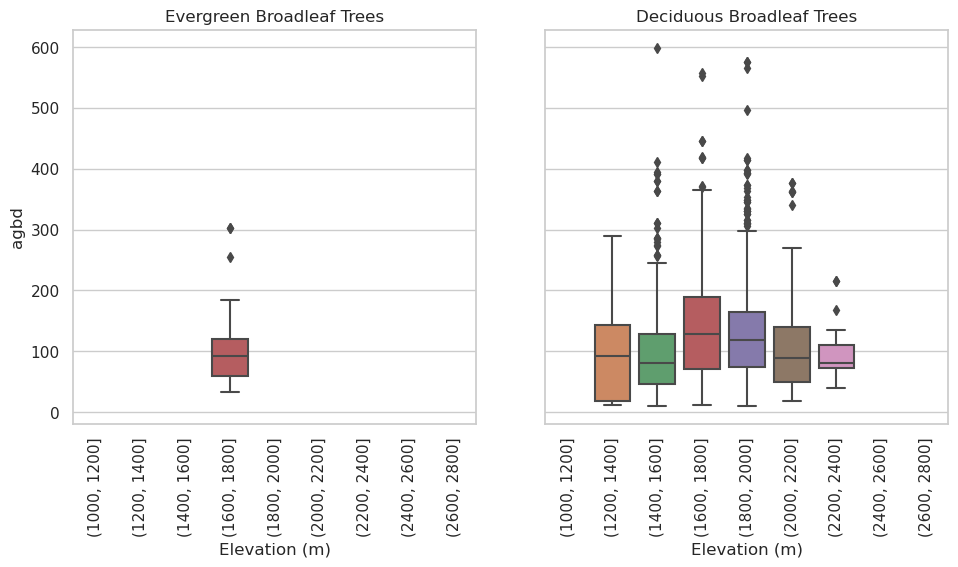
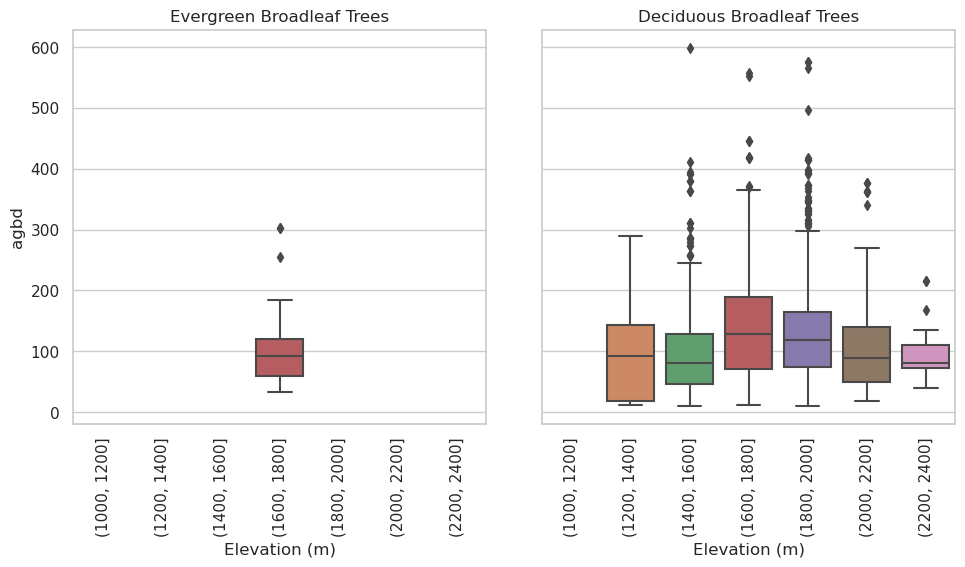
Built site for gh-pages

diff --git a/tutorials/science/gedi-l4a-agbd.html b/tutorials/science/gedi-l4a-agbd.html
@@ -345,6 +345,13 @@ pre > code.sourceCode > span > a:first-child::before { text-decoration: underlin
   </ul></li>
   <li><a href="#import-modules" id="toc-import-modules" class="nav-link" data-scroll-target="#import-modules">Import Modules</a></li>
   <li><a href="#authentication" id="toc-authentication" class="nav-link" data-scroll-target="#authentication">Authentication</a></li>
+  <li><a href="#create-harmony-client-object" id="toc-create-harmony-client-object" class="nav-link" data-scroll-target="#create-harmony-client-object">Create Harmony Client object</a></li>
+  <li><a href="#retrieve-concept-id" id="toc-retrieve-concept-id" class="nav-link" data-scroll-target="#retrieve-concept-id">Retrieve Concept ID</a></li>
+  <li><a href="#define-request-parameters" id="toc-define-request-parameters" class="nav-link" data-scroll-target="#define-request-parameters">Define Request Parameters</a></li>
+  <li><a href="#create-and-submit-harmony-request" id="toc-create-and-submit-harmony-request" class="nav-link" data-scroll-target="#create-and-submit-harmony-request">Create and Submit Harmony Request</a></li>
+  <li><a href="#read-subset-files" id="toc-read-subset-files" class="nav-link" data-scroll-target="#read-subset-files">Read Subset files</a></li>
+  <li><a href="#quality-filter-and-plot" id="toc-quality-filter-and-plot" class="nav-link" data-scroll-target="#quality-filter-and-plot">Quality Filter and Plot</a></li>
+  <li><a href="#further-resources" id="toc-further-resources" class="nav-link" data-scroll-target="#further-resources">Further Resources</a></li>
   </ul>
 <div class="toc-actions"><div><i class="bi bi-github"></i></div><div class="action-links"><p><a href="https://github.dev/NASA-Openscapes/2023-ssc/blob/main/tutorials/science/gedi-l4a-agbd.ipynb" class="toc-action">Edit this page</a></p><p><a href="https://github.com/NASA-Openscapes/2023-ssc/issues/new" class="toc-action">Report an issue</a></p></div></div></nav>
     </div>
@@ -419,10 +426,16 @@ pre > code.sourceCode > span > a:first-child::before { text-decoration: underlin
 <h2 class="anchored" data-anchor-id="authentication">Authentication</h2>
 <p>NASA Harmony API requires <a href="https://urs.earthdata.nasa.gov/">NASA Earthdata Login (EDL)</a>. You can use the <a href="https://nsidc.github.io/earthaccess/">earthaccess</a> Python library to set up authetincation. Alternatively, you can also login to harmony_client directly by passing EDL authentication as the following in the Jupyter Notebook itself:</p>
 <pre><code>harmony_client = Client(auth=("your EDL username", "your EDL password"))</code></pre>
+</section>
+<section id="create-harmony-client-object" class="level2">
+<h2 class="anchored" data-anchor-id="create-harmony-client-object">Create Harmony Client object</h2>
 <p>First, we create a Harmony Client object. If you are passing the EDL authentication, please do as shown above with <code>auth</code> parameter.</p>
 <div class="cell" data-tags="[]" data-execution_count="2">
 <div class="sourceCode cell-code" id="cb4"><pre class="sourceCode python code-with-copy"><code class="sourceCode python"><span id="cb4-1"><a href="#cb4-1" aria-hidden="true" tabindex="-1"></a>harmony_client <span class="op">=</span> Client()</span></code><button title="Copy to Clipboard" class="code-copy-button"><i class="bi"></i></button></pre></div>
 </div>
+</section>
+<section id="retrieve-concept-id" class="level2">
+<h2 class="anchored" data-anchor-id="retrieve-concept-id">Retrieve Concept ID</h2>
 <p>Now let’s retrieve the <code>Concept ID</code> of the GEDI L4A dataset. The <code>Concept ID</code> is NASA Earthdata’s unique ID for its dataset.</p>
 <div class="cell" data-tags="[]" data-execution_count="3">
 <div class="sourceCode cell-code" id="cb5"><pre class="sourceCode python code-with-copy"><code class="sourceCode python"><span id="cb5-1"><a href="#cb5-1" aria-hidden="true" tabindex="-1"></a><span class="co"># GEDI L4A DOI </span></span>
@@ -436,19 +449,22 @@ pre > code.sourceCode > span > a:first-child::before { text-decoration: underlin
 <pre><code>'C2237824918-ORNL_CLOUD'</code></pre>
 </div>
 </div>
+</section>
+<section id="define-request-parameters" class="level2">
+<h2 class="anchored" data-anchor-id="define-request-parameters">Define Request Parameters</h2>
 <p>Let’s create a Harmony Collection object with the concept_id retrieved above. We will also define the GEDI L4A variables of interest and temporal range.</p>
 <div class="cell" data-tags="[]" data-execution_count="4">
 <div class="sourceCode cell-code" id="cb7"><pre class="sourceCode python code-with-copy"><code class="sourceCode python"><span id="cb7-1"><a href="#cb7-1" aria-hidden="true" tabindex="-1"></a>collection <span class="op">=</span> Collection(<span class="bu">id</span><span class="op">=</span>concept_id)</span>
 <span id="cb7-2"><a href="#cb7-2" aria-hidden="true" tabindex="-1"></a><span class="co"># gedi beams</span></span>
 <span id="cb7-3"><a href="#cb7-3" aria-hidden="true" tabindex="-1"></a>beams <span class="op">=</span> [<span class="st">'BEAM0000'</span>, <span class="st">'BEAM0001'</span>, <span class="st">'BEAM0010'</span>, <span class="st">'BEAM0011'</span>, <span class="st">'BEAM0101'</span>, <span class="st">'BEAM0110'</span>, <span class="st">'BEAM1000'</span>, <span class="st">'BEAM1011'</span>]</span>
 <span id="cb7-4"><a href="#cb7-4" aria-hidden="true" tabindex="-1"></a><span class="co"># gedi variables</span></span>
-<span id="cb7-5"><a href="#cb7-5" aria-hidden="true" tabindex="-1"></a><span class="bu">vars</span> <span class="op">=</span> [<span class="st">'agbd'</span>, <span class="st">'l4_quality_flag'</span>, <span class="st">'elev_lowestmode'</span>, <span class="st">'land_cover_data/pft_class'</span>]</span>
+<span id="cb7-5"><a href="#cb7-5" aria-hidden="true" tabindex="-1"></a>variables <span class="op">=</span> [<span class="st">'agbd'</span>, <span class="st">'l4_quality_flag'</span>, <span class="st">'elev_lowestmode'</span>, <span class="st">'land_cover_data/pft_class'</span>]</span>
 <span id="cb7-6"><a href="#cb7-6" aria-hidden="true" tabindex="-1"></a><span class="co"># combine variables and beams</span></span>
-<span id="cb7-7"><a href="#cb7-7" aria-hidden="true" tabindex="-1"></a>variables <span class="op">=</span> [<span class="ss">f'/</span><span class="sc">{</span>b<span class="sc">}</span><span class="ss">/</span><span class="sc">{</span>v<span class="sc">}</span><span class="ss">'</span> <span class="cf">for</span> b <span class="kw">in</span> beams <span class="cf">for</span> v <span class="kw">in</span> <span class="bu">vars</span>]</span>
+<span id="cb7-7"><a href="#cb7-7" aria-hidden="true" tabindex="-1"></a>variables <span class="op">=</span> [<span class="ss">f'/</span><span class="sc">{</span>b<span class="sc">}</span><span class="ss">/</span><span class="sc">{</span>v<span class="sc">}</span><span class="ss">'</span> <span class="cf">for</span> b <span class="kw">in</span> beams <span class="cf">for</span> v <span class="kw">in</span> variables]</span>
 <span id="cb7-8"><a href="#cb7-8" aria-hidden="true" tabindex="-1"></a>temporal_range <span class="op">=</span> {<span class="st">'start'</span>: datetime(<span class="dv">2019</span>, <span class="dv">4</span>, <span class="dv">17</span>), </span>
 <span id="cb7-9"><a href="#cb7-9" aria-hidden="true" tabindex="-1"></a>                  <span class="st">'stop'</span>: datetime(<span class="dv">2023</span>, <span class="dv">3</span>, <span class="dv">31</span>)}</span></code><button title="Copy to Clipboard" class="code-copy-button"><i class="bi"></i></button></pre></div>
 </div>
-<p>We will use the spatial extent of a <a href="https://en.wikipedia.org/wiki/La_Primavera_Biosphere_Reserve">La Primavera Biosphere Reserve</a> provided as a GeoJSON file at <code>bosque_primavera.json</code>. Let’s open this file and compute its bound.</p>
+<p>We will use the spatial extent of a <a href="https://en.wikipedia.org/wiki/La_Primavera_Biosphere_Reserve">La Primavera Biosphere Reserve</a> provided as a GeoJSON file at <code>bosque_primavera.json</code>. Let’s open and plot this file.</p>
 <div class="cell" data-tags="[]" data-execution_count="5">
 <div class="sourceCode cell-code" id="cb8"><pre class="sourceCode python code-with-copy"><code class="sourceCode python"><span id="cb8-1"><a href="#cb8-1" aria-hidden="true" tabindex="-1"></a>poly_json <span class="op">=</span> <span class="st">'../data-access/bosque_primavera.json'</span></span>
 <span id="cb8-2"><a href="#cb8-2" aria-hidden="true" tabindex="-1"></a>poly <span class="op">=</span> gpd.read_file(poly_json) </span>
@@ -459,6 +475,9 @@ pre > code.sourceCode > span > a:first-child::before { text-decoration: underlin
 <p><img src="gedi-l4a-agbd_files/figure-html/cell-6-output-1.png" class="img-fluid"></p>
 </div>
 </div>
+</section>
+<section id="create-and-submit-harmony-request" class="level2">
+<h2 class="anchored" data-anchor-id="create-and-submit-harmony-request">Create and Submit Harmony Request</h2>
 <p>Now we can create a Harmony request with variables, temporal range, and bounding box and submit the request using the Harmony client object. We will use the <code>download_all</code> method, which uses a multithreaded downloader and returns a <a href="https://docs.python.org/3/library/concurrent.futures.html">concurrent future</a>. Futures are asynchronous and let us use the downloaded file as soon as the download is complete while other files are still being downloaded.</p>
 <div class="cell" data-tags="[]" data-execution_count="6">
 <div class="sourceCode cell-code" id="cb9"><pre class="sourceCode python code-with-copy"><code class="sourceCode python"><span id="cb9-1"><a href="#cb9-1" aria-hidden="true" tabindex="-1"></a>request <span class="op">=</span> Request(collection<span class="op">=</span>collection, </span>
@@ -569,6 +588,9 @@ Job is running with errors.
  [ Processing: 100% ] |###################################################| [|]</code></pre>
 </div>
 </div>
+</section>
+<section id="read-subset-files" class="level2">
+<h2 class="anchored" data-anchor-id="read-subset-files">Read Subset files</h2>
 <p>All the subsetted files are saved as <code>_subsetted.h5</code>. Let’s read these <code>h5</code> files into a pandas dataframe.</p>
 <div class="cell" data-tags="[]" data-execution_count="7">
 <div class="sourceCode cell-code" id="cb12"><pre class="sourceCode python code-with-copy"><code class="sourceCode python"><span id="cb12-1"><a href="#cb12-1" aria-hidden="true" tabindex="-1"></a>subset_df <span class="op">=</span> pd.DataFrame()</span>
@@ -701,6 +723,9 @@ Job is running with errors.
 </div>
 </div>
 </div>
+</section>
+<section id="quality-filter-and-plot" class="level2">
+<h2 class="anchored" data-anchor-id="quality-filter-and-plot">Quality Filter and Plot</h2>
 <p>We can now quality filter the dataset and only retrieve the good quality shots for trees and shrub cover plant functional types (PFTs).</p>
 <div class="cell" data-tags="[]" data-execution_count="8">
 <div class="sourceCode cell-code" id="cb13"><pre class="sourceCode python code-with-copy"><code class="sourceCode python"><span id="cb13-1"><a href="#cb13-1" aria-hidden="true" tabindex="-1"></a><span class="co"># MCD12Q1 PFT types</span></span>
@@ -747,7 +772,7 @@ Job is running with errors.
 </div>
 <p>Let’s also plot how the AGBD is distributed across elevation ranges for different PFTs.</p>
 <div class="cell" data-tags="[]" data-execution_count="10">
-<div class="sourceCode cell-code" id="cb15"><pre class="sourceCode python code-with-copy"><code class="sourceCode python"><span id="cb15-1"><a href="#cb15-1" aria-hidden="true" tabindex="-1"></a>gdf[<span class="st">'elev_bin'</span>]<span class="op">=</span>pd.cut(gdf[<span class="st">'elev_lowestmode'</span>], bins <span class="op">=</span><span class="bu">range</span>(<span class="dv">1000</span>, <span class="dv">3000</span>, <span class="dv">200</span>))</span>
+<div class="sourceCode cell-code" id="cb15"><pre class="sourceCode python code-with-copy"><code class="sourceCode python"><span id="cb15-1"><a href="#cb15-1" aria-hidden="true" tabindex="-1"></a>gdf[<span class="st">'elev_bin'</span>]<span class="op">=</span>pd.cut(gdf[<span class="st">'elev_lowestmode'</span>], bins <span class="op">=</span><span class="bu">range</span>(<span class="dv">1000</span>, <span class="dv">2600</span>, <span class="dv">200</span>))</span>
 <span id="cb15-2"><a href="#cb15-2" aria-hidden="true" tabindex="-1"></a>g <span class="op">=</span> sns.catplot(x <span class="op">=</span> <span class="st">"elev_bin"</span>, y <span class="op">=</span> <span class="st">"agbd"</span>, data <span class="op">=</span> gdf[mask], col<span class="op">=</span><span class="st">"pft_class"</span>, kind<span class="op">=</span><span class="st">"box"</span>)</span>
 <span id="cb15-3"><a href="#cb15-3" aria-hidden="true" tabindex="-1"></a>g.set_xticklabels(rotation<span class="op">=</span><span class="dv">90</span>)</span>
 <span id="cb15-4"><a href="#cb15-4" aria-hidden="true" tabindex="-1"></a>g.set_titles(<span class="st">"</span><span class="sc">{col_name}</span><span class="st">"</span>)</span>
@@ -759,7 +784,10 @@ Job is running with errors.
 <p><img src="gedi-l4a-agbd_files/figure-html/cell-11-output-1.png" class="img-fluid"></p>
 </div>
 </div>
-<p>Additional tutorials on discovering, accessing, and using GEDI Level 3 and Level 4 data products are available at https://github.com/ornldaac/gedi_tutorials.</p>
+</section>
+<section id="further-resources" class="level2">
+<h2 class="anchored" data-anchor-id="further-resources">Further Resources</h2>
+<p>Additional tutorials on discovering, accessing, and using GEDI Level 3 and Level 4 data products are available at <a href="https://github.com/ornldaac/gedi_tutorials">https://github.com/ornldaac/gedi_tutorials</a>.</p>
 
 
 </section>

diff --git a/tutorials/jupyterhub_demo/jupyterhub_demo.html b/tutorials/jupyterhub_demo/jupyterhub_demo.html
@@ -325,7 +325,7 @@ ul.task-list li input[type="checkbox"] {
 </header>
 
 <p>Author: Tasha Snow</p>
-<p><code>zlisxtkvtxwv Learning Objectives - **Learn how to access and use the Openscapes JupyterHub**  - **Open the JupyterHub and clone the Openscapes Espacio and Sostenibilidad Colloquium repository**</code></p>
+<p><code>hbquaorletof Learning Objectives - **Learn how to access and use the Openscapes JupyterHub**  - **Open the JupyterHub and clone the Openscapes Espacio and Sostenibilidad Colloquium repository**</code></p>
 <section id="access-the-cryocloud-powerpoint-whenever-you-need-to-reference-it" class="level2">
 <h2 class="anchored" data-anchor-id="access-the-cryocloud-powerpoint-whenever-you-need-to-reference-it">Access the <a href="https://bit.ly/4785hMv">CryoCloud powerpoint</a> whenever you need to reference it</h2>
 <p>Open the powerpoint by directly clicking on the hyperlink above or to open it in the Openscapes Linux Desktop web browser as follows: - Copy this hyperlink: <code>https://bit.ly/4785hMv</code> - Click on the plus (<code>+</code>) sign in the <code>File Browser</code> to the left to open a <code>Launcher</code> window - Under Notebooks, click on <code>Desktop</code> to access the Linux Desktop. This will open a new tab. - Click on the <code>Web Browser</code> tool (globe) at the bottom of the screen - Paste the url into the search bar</p>
@@ -336,7 +336,7 @@ ul.task-list li input[type="checkbox"] {
 <ol type="1">
 <li>Scroll through the server sizes. Stick with the 3.7Gb server (the default).</li>
 </ol>
-<p>```zlisxtkvtxwv Tip <strong>Be realistic about the max memory you will need. The amount you select, you are guaranteed, but if you use more you risk crashing your server for you and anyone else who is sharing with you. If you crash the server, it just requires logging out and reopening it, but it could be annoying for everyone.</strong></p>
+<p>```hbquaorletof Tip <strong>Be realistic about the max memory you will need. The amount you select, you are guaranteed, but if you use more you risk crashing your server for you and anyone else who is sharing with you. If you crash the server, it just requires logging out and reopening it, but it could be annoying for everyone.</strong></p>
 <p><strong>Check your memory usage at the bottom in the middle of the screen.</strong></p>
 <pre><code>
 2) Choose the Python programming language.
